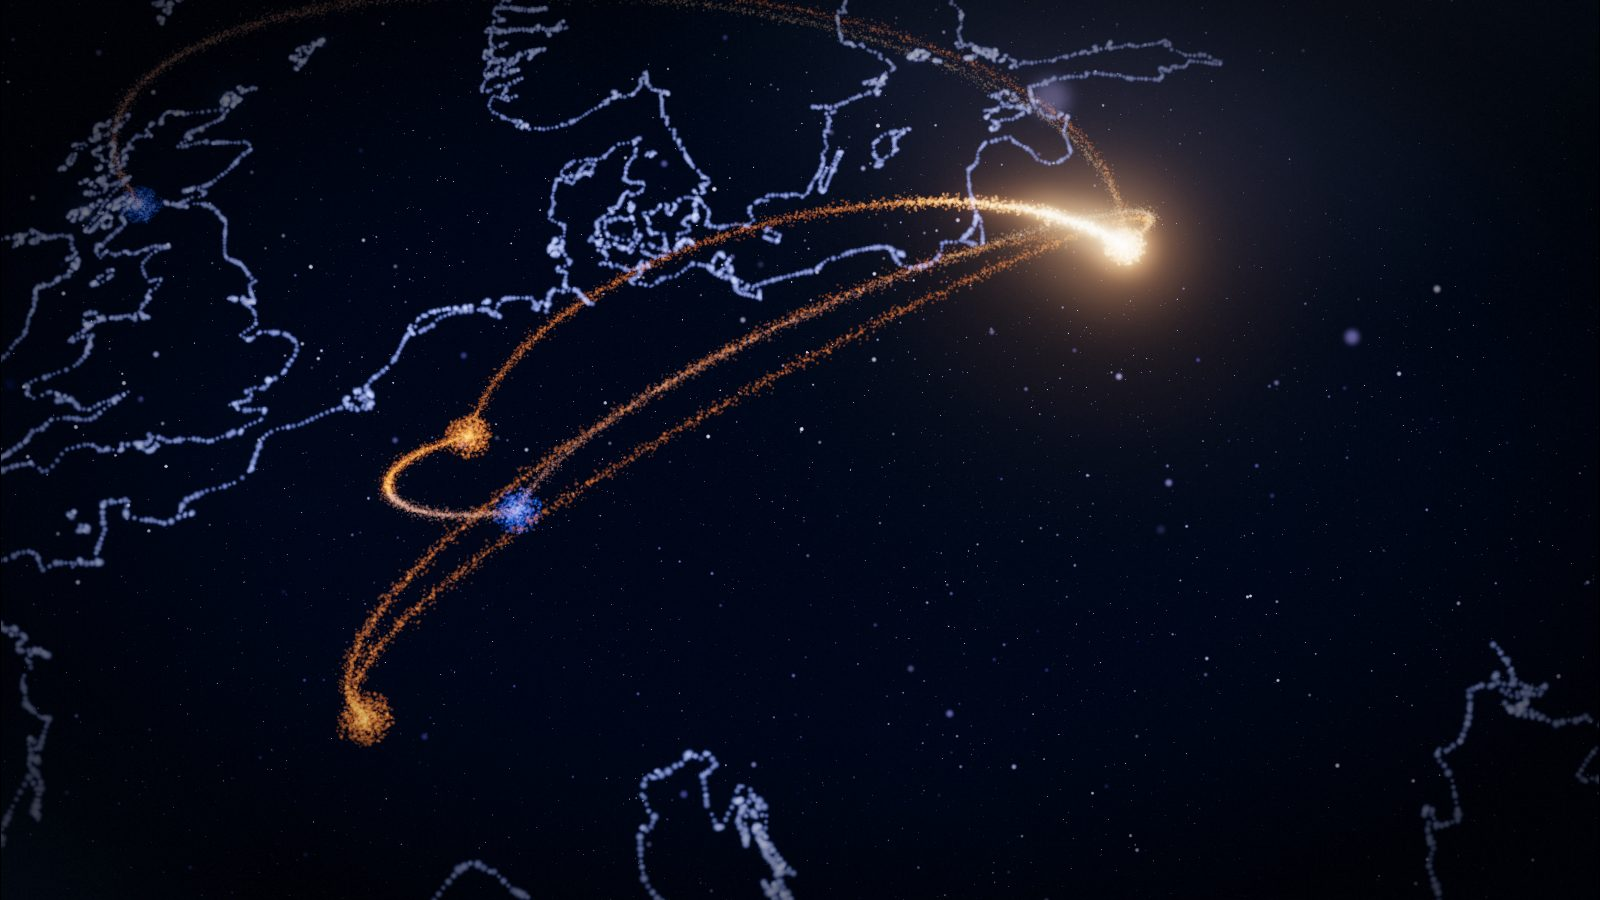
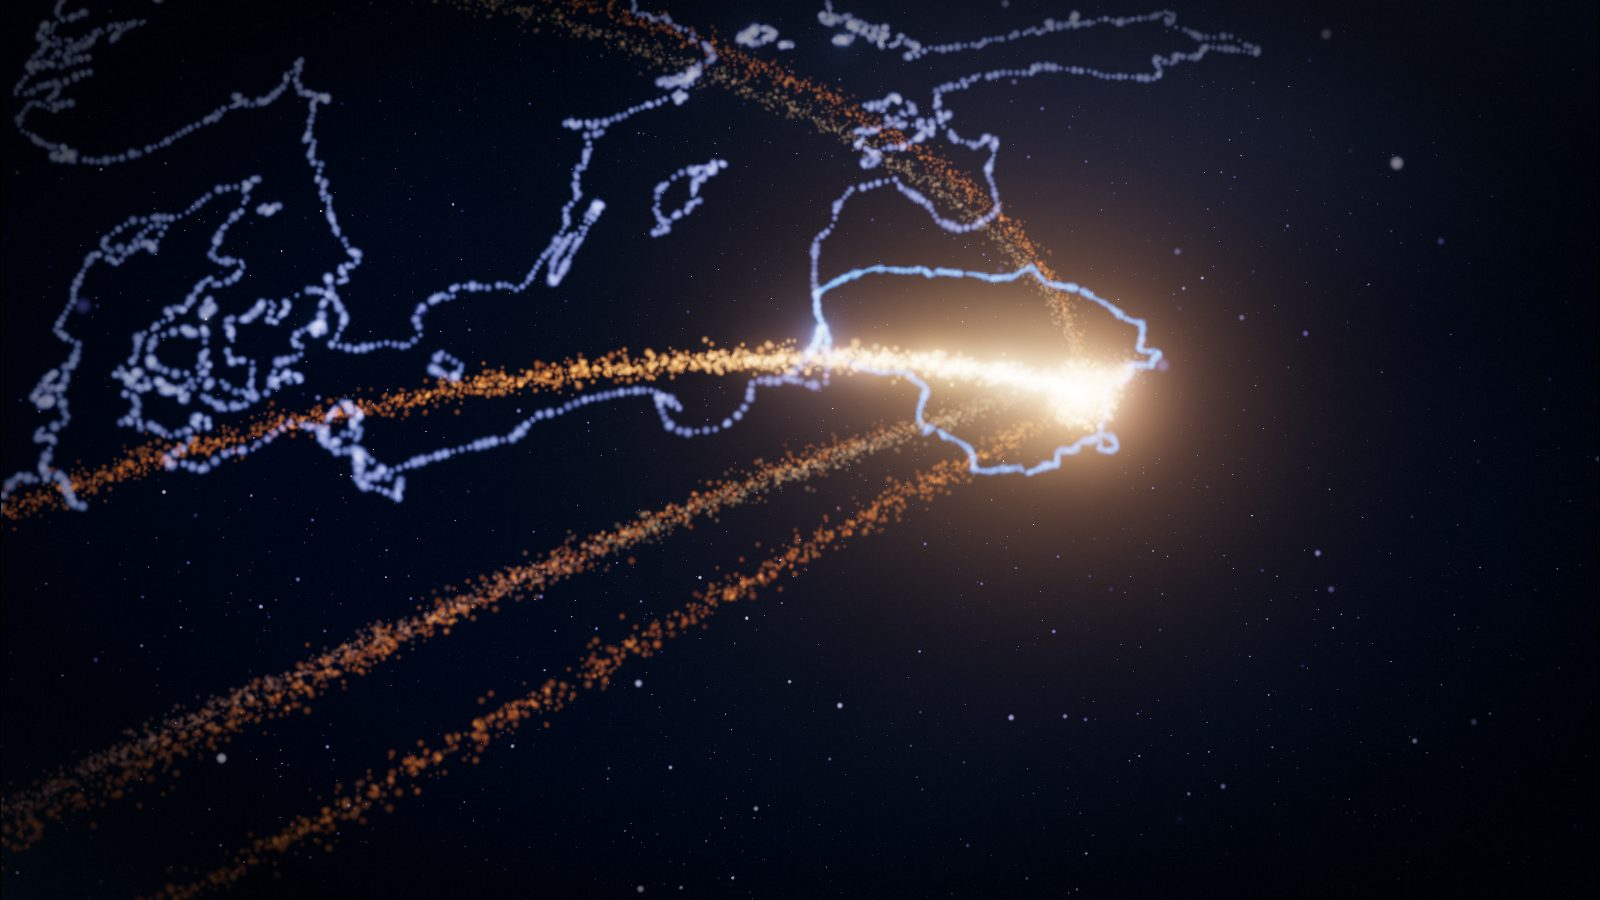
feat(uzsikrauk-karjerai): slide 13 dives to Vilnius and Lithuania's outline comes up round it
The picture carries the owner's "all of this can now be done in
Lithuania": the camera comes 2,4 times closer, the CERN label (now out of
frame) goes, and a second map, `lietuva` (Natural Earth 1:50m admin 0, via
scripts/make_lithuania.py), fades in on slide 13 only; a named map shows
from step 1. Still 13 retaken; credits name the outline.

Claude-Session: https://claude.ai/code/session_01HPWHZTZHfnAnVXNBwrmtg4

diff --git a/talks/2026_10_26_UzsikraukKarjerai/setup/grains.js b/talks/2026_10_26_UzsikraukKarjerai/setup/grains.js
@@ -640,12 +640,14 @@ function buildGhost(o, ctx) {
 
 // ---- map ----------------------------------------------------------------------------
 //   { type: map, src: 'data/europe.json', pos, scale?: 1, color?, border?: '#…', size?: 1,
-//     alpha?: 0.5, borderAlpha?: 0.18, lift?: 0 }
+//     alpha?: 0.5, borderAlpha?: 0.18, lift?: 0, name? }
 // A coastline drawn in grains on the ground plane (y = 0): the points of
 // `coast` and `borders` in the file are x, z pairs, one unit a degree of
 // latitude (scripts/make_europe.py, from Natural Earth 1:50m). Born scattered
 // in the dust; condenses on arrival (`c` again). No names, no fills: the
-// shape alone says where we are.
+// shape alone says where we are. A named map shows only from step 1 (step 0
+// hides it); each change eases over about two seconds (Lithuania's outline,
+// scripts/make_lithuania.py, comes up on slide 13).
 const MAP_VERT = /* glsl */ `
 attribute vec3 aScatter;
 attribute float aSeed, aKind;   // 0 coast, 1 border
@@ -695,12 +697,27 @@ function buildMap(o, ctx) {
     arm() { u.uForm.value = 0; t0 = -1 },
     assemble(t, onDone) { t0 = t; u.uForm.value = 0; done = onDone || null },
   }
+  const A = o.alpha ?? 0.5, B = o.borderAlpha ?? 0.18
+  let want = 1, shown = 1, last = -1, off = null
+  if (o.name) {
+    want = shown = (state.get(o.name) ?? 0) > 0 ? 1 : 0
+    off = listen(o.name, (k) => { want = k > 0 ? 1 : 0 })
+    mat.addEventListener('dispose', off)
+    u.uAlpha.value = A * shown; u.uBorderAlpha.value = B * shown
+  }
   return {
     group: g, labels: [], api, frameScale: u.uPixelRatio,
     update(t) {
       u.uTime.value = t
       if (t0 >= 0) { const x = Math.min((t - t0) / 3.6, 1); u.uForm.value = x; if (x >= 1) { t0 = -1; const cb = done; done = null; cb?.() } }
+      if (o.name && shown !== want) {
+        const dt = last < 0 ? 0 : Math.min(t - last, 0.1)
+        shown = want > shown ? Math.min(want, shown + dt / 2) : Math.max(want, shown - dt / 1.2)
+        u.uAlpha.value = A * shown; u.uBorderAlpha.value = B * shown
+      }
+      last = t
     },
+    dispose: off ?? undefined,
   }
 }
 

diff --git a/talks/2026_10_26_UzsikraukKarjerai/scripts/make_lithuania.py b/talks/2026_10_26_UzsikraukKarjerai/scripts/make_lithuania.py
@@ -1,0 +1,20 @@
+import json, math, sys
+# Lithuania's outline for slide 13, in europe.json's projection (scripts/make_europe.py).
+# python3 -I make_lithuania.py ne_50m_admin_0_countries.geojson public/data/lithuania.json
+countries, out = sys.argv[1], sys.argv[2]
+LON0, LAT0, K = 10.0, 50.0, math.cos(math.radians(52))
+def proj(lon, lat): return ((lon - LON0) * K, -(lat - LAT0))
+f = next(f for f in json.load(open(countries))['features'] if f['properties'].get('ADM0_A3') == 'LTU')
+g = f['geometry']
+polys = g['coordinates'] if g['type'] == 'MultiPolygon' else [g['coordinates']]
+pts = []
+for poly in polys:
+    ring = poly[0]   # the outer ring
+    for (a, b) in zip(ring, ring[1:]):
+        ax, az = proj(*a); bx, bz = proj(*b)
+        L = math.hypot(bx - ax, bz - az); n = max(1, int(L / 0.03))
+        for i in range(n):
+            t = i / n; pts.append((round(ax + (bx - ax) * t, 3), round(az + (bz - az) * t, 3)))
+json.dump({'proj': {'lon0': LON0, 'lat0': LAT0, 'k': round(K, 6), 'note': "Natural Earth 1:50m admin 0, Lithuania's outer rings"},
+           'coast': [v for p in pts for v in p], 'borders': []}, open(out, 'w'), separators=(',', ':'))
+print(len(pts))

diff --git a/talks/2026_10_26_UzsikraukKarjerai/CLAUDE.md b/talks/2026_10_26_UzsikraukKarjerai/CLAUDE.md
@@ -290,6 +290,12 @@ and name line) and „Ačiū“ (lint: 2 TEXT warnings, on purpose).
     summer, a record. The 20–40 flights line went: it worked against the
     point (and came from an automatic transcript). Undo: 3948c6b's slides 12–13
     and `.city.step` in styles/index.css.
+    The picture follows the point: slide 13's camera dives from Europe to
+    Vilnius (dist 15, about 2,4 times closer; the CERN label is out of frame
+    and gone), and Lithuania's outline fades in round it, light blue (a
+    second `map`, `lietuva`, from Natural Earth 1:50m admin 0 via
+    scripts/make_lithuania.py; a named map shows from step 1, hidden on
+    every other slide). Undo: drop the `lietuva` object and the steps.
   - "No need for small print at all" (to Innoday): the Scheduler is asking
     whether it covers every talk's credits; this talk's are unchanged until
     it says.
